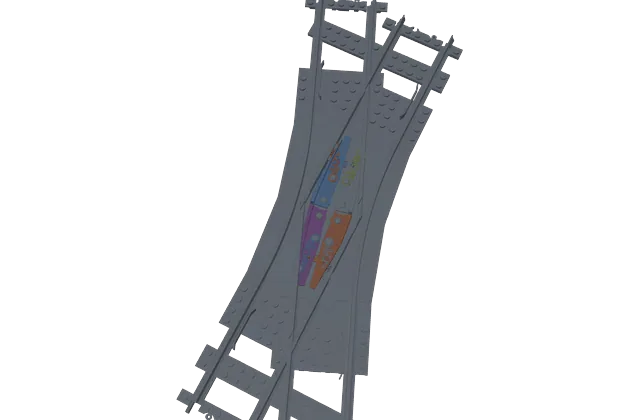
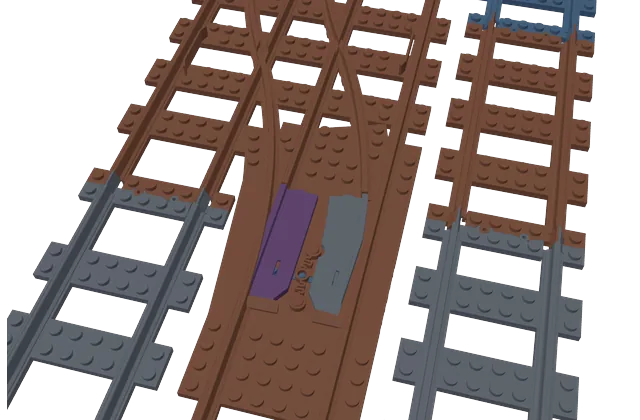
fix: the example for Points with no room for a throw goes together (points boxed in between two tracks)
The setting's example was the 22.5-degree double slip with its levers placed by hand, whose middle points as nail
switches can't be put together (the build says so). The setting does do something useful elsewhere, so it stays:
the example is now three tracks 9 studs apart with a crossover from the middle one to the left one. The middle
track's points have a track a stud off on each side, so no side has room for a lever. With Nail switches those
points are a nail switch and the design passes every assembly check, nothing said; with A slider under the track
the lever is kept, in the way of trains on the next track, and the build warns. Both pictures are made again.

No stock template builds differently between the two choices: each finds room for its levers (on the other side,
the slider moved along, or the lever further out) before the setting is asked.

The help says what happens today: two throws count as running into each other only where moving a slider along
doesn't clear them (a double slip's with its levers placed by hand), and Nail switches says that two such points
side by side are too close for their springs and get a warning.

nail-switch.test.ts: the example as a nail switch goes together (the templates' checks); with a slider it keeps
two levers and warns.

diff --git a/scripts/option-specs.ts b/scripts/option-specs.ts
@@ -34,6 +34,13 @@ export interface OptionSpec {
 
 const st = (studs: number, more = {}) => ({ name: 'A', x: 0, y: 0, heading: 0, segs: [{ kind: 'straight' as const, studs }], ...more });
 const curve = [{ name: 'C', x: 0, y: 0, heading: 0, segs: [{ kind: 'curve' as const, radius: 40, angle: 45 }] }];
+/** Points with no room for a throw: three tracks 9 studs apart, a crossover (R40) from the middle one to the left one. */
+const BOXED_TURN = (Math.acos(1 - 9 / 80) * 180) / Math.PI;
+export const BOXED_IN = [
+  { name: 'Left', x: -9, y: 0, heading: 0, segs: [{ kind: 'straight', studs: 64 }] },
+  { name: 'Middle', x: 0, y: 0, heading: 0, segs: [{ kind: 'straight', studs: 64 }] },
+  { name: 'Right', x: 9, y: 0, heading: 0, segs: [{ kind: 'straight', studs: 64 }] },
+  { name: 'Crossover', x: 0, y: 8, heading: 0, segs: [{ kind: 'curve', radius: 40, angle: BOXED_TURN }, { kind: 'curve', radius: 40, angle: -BOXED_TURN }] }];
 const D = (routes: unknown[], options: Record<string, unknown> = {}, more: Record<string, unknown> = {}): Design => ({ version: 1, gaugeStuds: 4, routes, options: { printBedX: 500, printBedY: 500, legoTrack: 'print', ...options }, ...more } as Design);
 const box = (ps: P[]) => { const b = [1e9, 1e9, 1e9, -1e9, -1e9, -1e9]; for (const p of ps) for (let i = 0; i < p.positions.length; i += 3) for (let k = 0; k < 3; k++) { b[k] = Math.min(b[k], p.positions[i + k]); b[k + 3] = Math.max(b[k + 3], p.positions[i + k]); } return b; };
 const mid = (ps: P[]): [number, number, number] => { const b = box(ps); return [(b[0] + b[3]) / 2, (b[1] + b[4]) / 2, (b[2] + b[5]) / 2]; };
@@ -100,7 +107,10 @@ export const SPECS: OptionSpec[] = [
   { key: 'throwStyle', values: ['built-in', 'bracket', 'stand', 'nail'], base: D(sw), cam: throwCam },
   // (each lever set by hand how far along it is: its slider not moved along to clear the next set's, so each pair's meet)
   { key: 'threeWayLevers', values: ['1', '2'], base: D(TEMPLATES['Three-way switch (one throw)'].routes), cam: { dir: '0.25,-0.9,1.1', r: 210, at: () => [0, 40, 6] } },
-  { key: 'boxedThrow', values: ['nail', 'slider'], base: D(TEMPLATES['Double slip (22.5°)'].routes, { pointBlades: 1 }, { trackwork: { throw: Object.fromEntries(Object.keys(TEMPLATES['Double slip (22.5°)'].trackwork!.throw!).map((k) => [k, { springLength: 40 }])) } }), cam: { dir: '0.15,-0.3,1', dist: 1.3 } },
+  // (three tracks 9 studs apart, a crossover from the middle one to the left one: the middle track's points have a track
+  // a stud off on each side, their lever on one or the other whichever side it's on. As a nail switch it goes together
+  // (nail-switch.test.ts); with a slider, the lever's in the way of trains, and the build says so)
+  { key: 'boxedThrow', values: ['nail', 'slider'], base: D(BOXED_IN), cam: { dir: '0.2,-0.8,1.1', r: 300, at: () => [0, 120, 6] } },
   // (the snap clamp on the lever's arm, with the default sprung blades; from above the points, the lever beside them)
   { key: 'throwAction', values: ['detent', 'overcentre', 'snap'], base: D(sw), cam: { dir: '0.45,-0.75,1', r: 125, at: () => [16, 26, 6] } },
   { key: 'throwSide', values: ['auto', 'left', 'right'], base: D(sw), alike: ['auto', 'right'], cam: { dir: '0.2,-0.5,1', dist: 1.25 } },

diff --git a/test/nail-switch.test.ts b/test/nail-switch.test.ts
@@ -1,6 +1,7 @@
 import { describe, expect, it } from 'vitest';
-import { buildDesign } from '../src/app/build';
-import { type Design, TEMPLATES } from '../src/app/design';
+import { buildDesign, clearBuildCache } from '../src/app/build';
+import { type Design, OPTION_DEFAULTS, type PieceOptions, TEMPLATES } from '../src/app/design';
+import { BOXED_IN } from '../scripts/option-specs';
 import { kernel } from '../src/geom/kernel';
 import { Scad } from '../src/geom/scad';
 import type { Route } from '../src/route/route';
@@ -126,6 +127,26 @@ describe('points with no room for a throw', { timeout: 600000 }, () => {
     const said = b.info.warnings.filter((w) => crossWarn.test(w));
     expect(said).toHaveLength(2);
     for (const w of said) expect(w.match(/\(studs\)/g)).toHaveLength(2);
+  });
+  // (the settings' example (option-specs.ts): the middle one of three tracks 9 studs apart, a track a stud off each side of
+  // its points: no side for a lever. A nail switch there goes together, everything the templates are checked for; with
+  // a slider the lever's kept, in the way of trains, and said)
+  it('points boxed in between two tracks: a nail switch that goes together; with A slider under the track, the lever kept and said', async () => {
+    const boxed = (boxedThrow: 'nail' | 'slider'): Design => ({ version: 1, gaugeStuds: 4, routes: structuredClone(BOXED_IN) as Design['routes'], options: { legoTrack: 'print', boxedThrow } });
+    const saved = { ...OPTION_DEFAULTS };
+    Object.assign(OPTION_DEFAULTS, (globalThis as { APP_DEFAULTS?: PieceOptions }).APP_DEFAULTS!);
+    try {
+      clearBuildCache();
+      const b = buildDesign(await kernel(), boxed('nail')), names = b.pieces.map((p) => p.name);
+      // (the middle track's points a nail switch, the left track's with their lever (its other side's free); nothing said)
+      expect([names.filter((n) => /-spring$/.test(n)).length, names.filter((n) => /-lever$/.test(n)).length]).toEqual([1, 1]);
+      expect(b.info.warnings.filter((x) => /lever|throw|spring/.test(x))).toEqual([]);
+      clearBuildCache();
+      const c = buildDesign(await kernel(), boxed('slider'));
+      expect(c.pieces.filter((p) => /-lever$/.test(p.name))).toHaveLength(2);
+      expect(c.info.warnings.filter((x) => /the lever of the points at 0, 8 \(studs\) is in the way of a train on another track/.test(x))).toHaveLength(1);
+    } finally { Object.assign(OPTION_DEFAULTS, saved); clearBuildCache(); }
+    await goesTogether('points boxed in, as a nail switch', boxed('nail'));
   });
   it('the 45° double slip\'s throws clear of each other: levers as asked, nothing said', async () => {
     const d = TEMPLATES['Double slip (45°, R40)'];

diff --git a/src/app/settings.ts b/src/app/settings.ts
@@ -143,8 +143,8 @@ export function optionForm(d: () => Design): { form: OptSection[]; noMono: (c?: 
           con: 'Both levers thrown at once set no route: a train derails there. It takes a lever\'s room on both sides (Lever side doesn\'t apply). The levers click; no over-centre spring or snap clamp.',
           no: (c) => (c.fdb ? undefined : 'only with Mechanism: Blades on top, on pins') }] },
       { key: 'boxedThrow', label: 'Points with no room for a throw', get: () => d().options?.boxedThrow ?? 'slider', set: (v) => { d().options = { ...d().options, boxedThrow: v as 'nail' | 'slider' }; }, def: 'slider',
-        off: (c) => (c.fdb ? undefined : 'only with Mechanism: Blades on top, on pins'), help: 'Points whose throw would cross other track in the same part (its lever on that track, or its arm across it), or run into another points\' throw (a double slip\'s, whose sliders cross under its crossing).', choices: [
-        { v: 'nail', t: 'Nail switches', tip: 'Those points thrown by hand (Throw: Nail switch); the rest as set.' },
+        off: (c) => (c.fdb ? undefined : 'only with Mechanism: Blades on top, on pins'), help: 'Points whose throw would cross other track in the same part (its lever on that track, or its arm across it), or run into another points\' throw even with its slider moved along (a double slip\'s with its levers placed by hand, whose sliders cross under its crossing).', choices: [
+        { v: 'nail', t: 'Nail switches', tip: 'Those points thrown by hand (Throw: Nail switch); the rest as set.', con: 'Two such points side by side (a double slip\'s middle points) are too close for their springs: a warning.' },
         { v: 'slider', t: 'A slider under the track, to a lever past it', tip: 'The slider in a tunnel under the other track (in two parts), the lever out past it.', con: 'Long sliders under other track; where there\'s no room even so, and where two throws run into each other, a warning.' }] },
       { key: 'throwAction', label: 'Points kept set by', off: onlyPlates, choices: [
         { v: 'detent', t: 'Lever click', tip: 'The lever clicks into place at each end.', con: 'A train trailing through the wrong way can push the points part way and derail.' },
